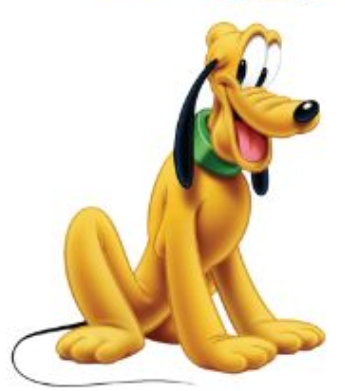
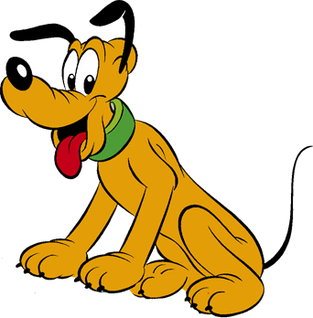
Add files via upload

diff --git a/index.html b/index.html
@@ -1,0 +1,166 @@
+<!DOCTYPE html>
+<html lang="en">
+
+<head>
+    <meta charset="UTF-8">
+    <meta name="viewport" content="width=device-width, initial-scale=1.0">
+    <title>Page 1</title>
+</head>
+
+<body>
+    <header>
+        <h1>Welcome to page 1!</h1>
+
+        <a href="index2.html">Jump to about page</a>
+        <a href="#p10">Jump to paragraph 10</a>
+    </header>
+
+    <main>
+        <p>
+            <b>Lorem ipsum dolor sit amet, consectetur adipiscing elit.</b>
+            Fusce sodales sapien a mauris
+            ullamcorper placerat. Curabitur ac magna dignissim, ultricies nisi eget, elementum lorem.
+            Etiam vehicula nisi libero, eu semper lorem lacinia ut. Donec est urna, suscipit non tempor sed,
+            eleifend pretium eros. Maecenas vitae interdum mi. Praesent suscipit lorem augue. Mauris
+            commodo dolor sapien. Cras mattis non enim sed cursus. In et malesuada neque, vel faucibus arcu.
+            Vivamus posuere ipsum sed lacinia dapibus.
+        </p>
+
+        <p>
+            In ultricies magna eget lacinia ullamcorper. Proin cursus, quam sit amet elementum feugiat, turpis nulla
+            mollis turpis, a bibendum tortor nunc non quam. Mauris imperdiet convallis urna eu consequat. Morbi tempor
+            justo sagittis massa sodales molestie. Cras vitae tortor leo. Sed bibendum molestie orci consectetur
+            pharetra.
+            Suspendisse a mi vitae justo maximus lobortis quis iaculis quam. Pellentesque nec tristique lacus. Maecenas
+            laoreet
+            massa erat, eu sagittis nibh tristique quis. Sed sit amet imperdiet nibh, in malesuada risus. Integer
+            consectetur velit
+            libero, nec dignissim purus interdum id. Duis tristique ut odio a fringilla. Suspendisse pulvinar leo massa.
+            Donec ut maximus
+            metus. Vivamus iaculis, ante non scelerisque condimentum, arcu dui maximus orci, ac consequat nulla mauris
+            quis
+            felis.
+        </p>
+
+        <p>
+            Curabitur imperdiet dignissim diam. Proin lorem ipsum, sagittis quis molestie ut, ullamcorper non tellus.
+            Donec
+            ex mauris,
+            scelerisque sit amet faucibus ac, porta quis tortor. Quisque nec sapien a dui lobortis luctus. Nam
+            facilisis,
+            turpis nec viverra
+            vestibulum, lorem sem pharetra justo, eu efficitur neque ex nec justo. Vestibulum mattis elit sed tortor
+            laoreet, eu egestas nunc
+            auctor. Nullam vehicula eget nisi vel auctor. Morbi consectetur consequat ante, ac blandit risus condimentum
+            id.
+            Sed nulla elit,
+            aliquet vel risus nec, interdum volutpat elit
+        </p>
+
+        <p>
+            Nulla semper semper sem sed pellentesque. Cras et metus vitae dui egestas semper ac sed erat. Sed malesuada
+            viverra ultrices.
+            Nunc nec rutrum mi. Sed pretium libero non tempor pellentesque. Vivamus et ligula et turpis aliquam
+            porttitor.
+            Sed interdum
+            laoreet libero eget dapibus. Donec dapibus viverra enim, sit amet consectetur eros posuere id. Praesent quis
+            augue non nunc
+            lacinia posuere
+        </p>
+
+        <p>
+            Aliquam mollis odio in dolor mollis, eget aliquam quam bibendum. Nam tempor eros id bibendum ultrices. Nam
+            in
+            tellus condimentum,
+            pulvinar arcu iaculis, rhoncus tellus. Etiam sit amet purus faucibus, faucibus odio a, interdum dui. Nullam
+            vestibulum augue
+            porta dapibus vehicula. Nullam facilisis fermentum sagittis. Ut suscipit, risus eget fringilla imperdiet,
+            urna
+            odio molestie
+            neque, vel facilisis metus justo sit amet diam. Orci varius natoque penatibus et magnis dis parturient
+            montes,
+            nascetur ridiculus
+            mus. Quisque accumsan ac ligula eu tincidunt. Nulla ultricies eu tellus id luctus. Sed pulvinar pulvinar
+            enim eu
+            tristique
+        </p>
+
+        <p>
+            Vestibulum mattis tempus erat venenatis dapibus. Suspendisse potenti. Proin nisi enim, tristique a mauris a,
+            ullamcorper faucibus
+            eros. Ut et odio quis mi venenatis efficitur. Ut a pellentesque lorem. Duis eget euismod dui. Pellentesque
+            ac
+            hendrerit mauris.
+            Suspendisse auctor velit vel consectetur molestie. Aenean mi nibh, mollis in feugiat quis, placerat non
+            nunc.
+            Maecenas ac
+            consectetur nunc, vitae vestibulum leo.
+        </p>
+
+        <p>
+            Donec venenatis enim et massa auctor molestie. Etiam sagittis volutpat consectetur. Donec arcu massa, auctor
+            ut
+            leo vel, auctor posuere nunc.
+            Praesent nunc sapien, pharetra a feugiat ac, ornare convallis nibh. Maecenas id ante ipsum. Ut commodo ex
+            vitae
+            augue venenatis, sit amet
+            hendrerit nunc porttitor. Sed a fringilla elit.
+        </p>
+
+        <p>
+            Vestibulum risus justo, consequat a nibh vel, scelerisque facilisis nibh. Integer rutrum, eros rutrum
+            sodales
+            sollicitudin,
+            diam enim dapibus est, in volutpat sapien dui sit amet ante. Aenean aliquet, turpis id congue eleifend, quam
+            sem
+            sodales arcu,
+            id suscipit erat magna sit amet magna. Praesent sollicitudin odio sit amet lobortis consectetur. Nam vitae
+            tempus urna.
+            Suspendisse at consectetur magna. Integer urna elit, cursus quis ornare vitae, cursus quis nunc. Mauris a
+            pharetra libero,
+            sit amet tempus metus. Aliquam porttitor sapien nec odio condimentum vehicula.
+        </p>
+
+        <p>
+            Donec placerat diam et metus ullamcorper, non blandit felis venenatis. Pellentesque convallis pellentesque
+            nisl
+            faucibus vulputate.
+            Vestibulum porta, lectus non aliquam lacinia, massa velit lobortis odio, in fermentum augue dolor ut arcu.
+            Vestibulum cursus semper dictum. Ut ac diam vitae lacus porta dignissim et et ligula.
+            Pellentesque convallis eros ut enim accumsan rutrum. Sed ultricies mollis convallis.
+            Proin dolor lacus, molestie eu justo at, congue imperdiet velit. Donec nec imperdiet dui, sit amet imperdiet
+            turpis.
+            Vivamus fermentum ipsum quam, et sagittis augue pharetra vitae. Maecenas a tortor nec nulla luctus commodo.
+            Aliquam et arcu
+            fermentum, lobortis nibh et, viverra justo. Duis iaculis ante non consectetur vulputate. Morbi maximus
+            laoreet
+            posuere.
+            Praesent sit amet ornare velit. Nunc pulvinar finibus porta.
+        </p>
+
+        <p id="p10">
+            Vestibulum aliquet purus eros, eget pretium orci porta et. Integer nulla elit, commodo eget ante ac,
+            ultricies tristique est.
+            Etiam pretium enim nec metus consectetur blandit. Aliquam erat volutpat. Mauris posuere mauris in odio
+            accumsan
+            facilisis.
+            Praesent tincidunt ultrices libero et facilisis. Maecenas sed urna aliquet, tempor elit non, efficitur ante.
+            Nam
+            nisi ex,
+            lacinia imperdiet venenatis ut, pellentesque ac augue. Maecenas at vestibulum augue, at lacinia ante. Duis
+            lobortis lobortis
+            accumsan. Nunc eu eleifend metus. Aliquam ac ornare dui, sed vulputate dui.
+        </p>
+
+        <div>
+            <img src="images/p1.png" alt="p1" title="mini mouse">
+        </div>
+
+        <div>
+            <img src="images/p2.png" alt="p2" title="pluto">
+        </div>
+
+    </main>
+</body>
+
+</html>

diff --git a/index2.html b/index2.html
@@ -10,7 +10,7 @@
 <body>
     <header>
         <h1>Welcome to page 2!</h1>
-        <a href="index1.html">Jump to homepage</a>
+        <a href="index.html">Jump to homepage</a>
     </header>
 
     <main>
@@ -41,8 +41,8 @@
             </li>
         </ol>
 
-        <img src="images/p3.png" alt="p3">
-        <img src="images/p4.png" alt="p4">
+        <img src="images/p3.jpg" alt="p3" title="stitch1">
+        <img src="images/p4.jpg" alt="p4" title="stitch2">
 
         </header>
 </body>
